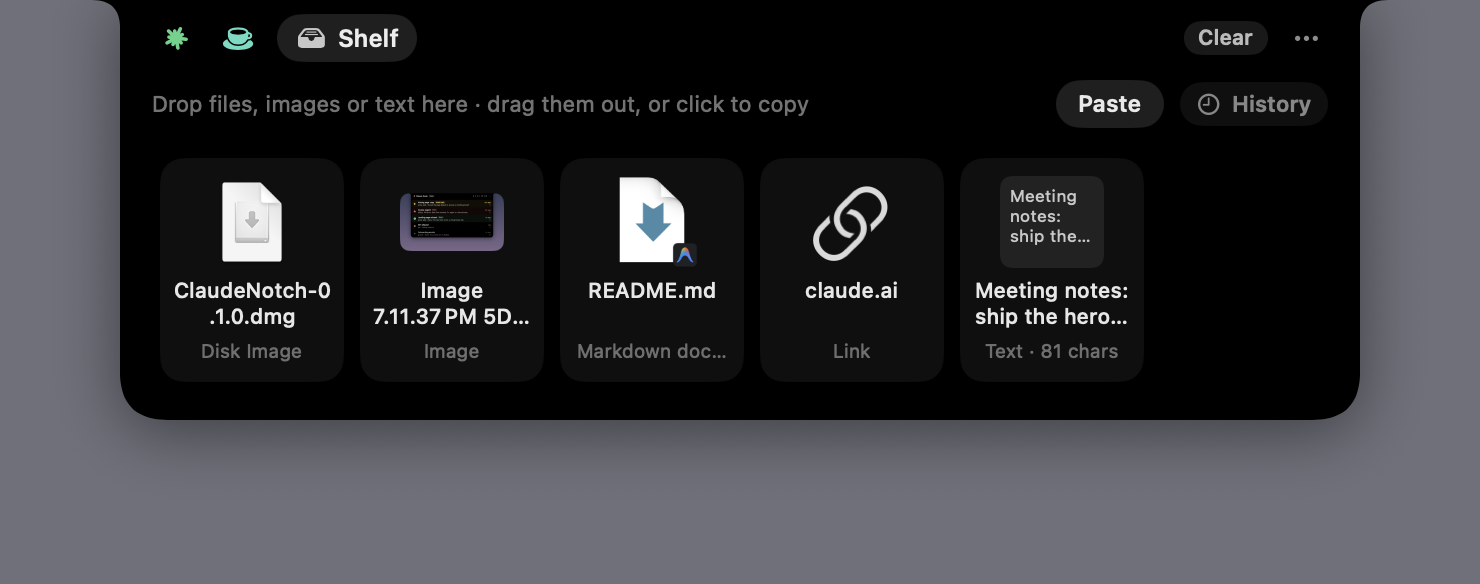
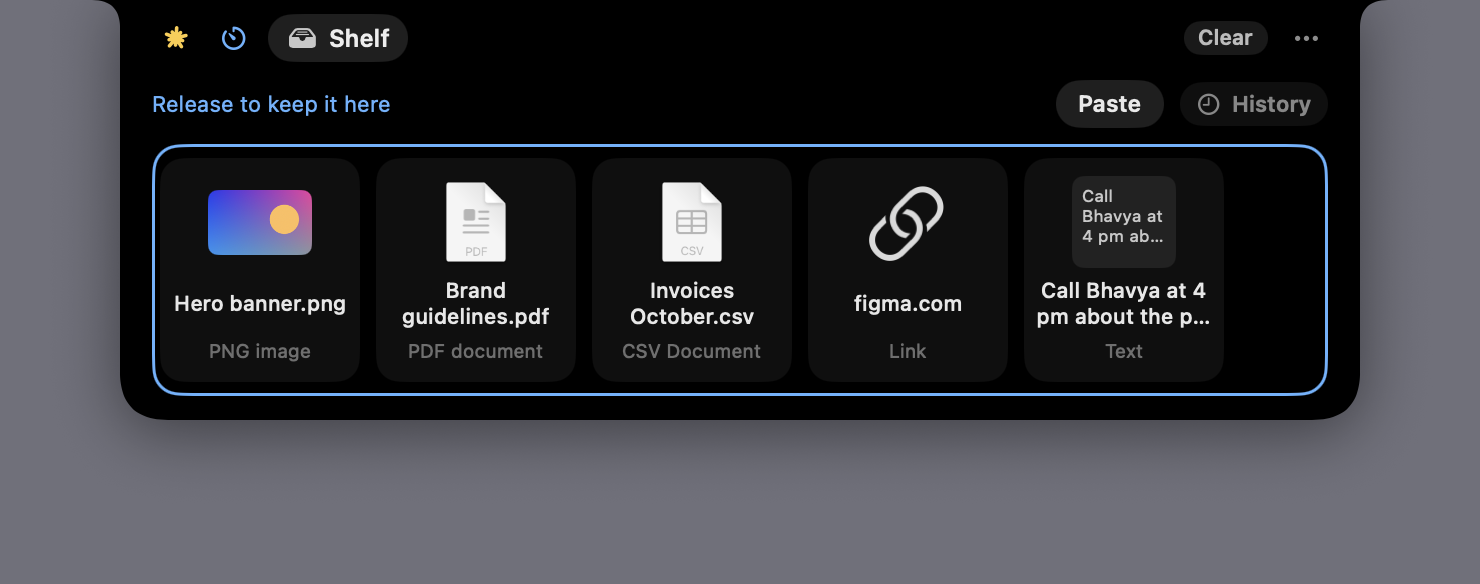
Showcase timer, Pomodoro and shelf at the top of the README

diff --git a/Sources/ClaudeNotch/ModuleViews.swift b/Sources/ClaudeNotch/ModuleViews.swift
@@ -494,10 +494,10 @@ struct ShelfTile: View {
             Text(item.title)
                 .font(.system(size: 10.5, weight: .medium))
                 .foregroundStyle(.white.opacity(0.9))
-                .lineLimit(isText ? 2 : 1)
-                .truncationMode(isText ? .tail : .middle) // "ClaudeN…0.1.0.dmg" keeps the extension
+                .lineLimit(2)
+                .truncationMode(isText ? .tail : .middle) // long file names keep their extension
                 .multilineTextAlignment(.center)
-                .frame(height: 26, alignment: isText ? .top : .center)
+                .frame(height: 26, alignment: .center)
             Text(copied ? "Copied" : item.kindLabel)
                 .font(.system(size: 9.5, weight: copied ? .bold : .regular))
                 .foregroundStyle(copied ? Palette.green : .white.opacity(0.4))
@@ -505,7 +505,7 @@ struct ShelfTile: View {
         }
         .padding(.horizontal, 6)
         .padding(.vertical, 7)
-        .frame(width: 92, height: 112)
+        .frame(width: 100, height: 112)
         .background(RoundedRectangle(cornerRadius: 12, style: .continuous).fill(Color.white.opacity(hovering ? 0.12 : 0.06)))
         .overlay(alignment: .topTrailing) {
             if hovering {

diff --git a/Sources/ClaudeNotch/SessionStore.swift b/Sources/ClaudeNotch/SessionStore.swift
@@ -28,6 +28,12 @@ final class SessionStore: ObservableObject {
     private var primed = false
 
     private static let acksKey = "acknowledged"
+    #if DEBUG
+    /// A debug build on a fake ~/.claude shows only the fake sessions, never real ones reaching it via hooks.
+    private static let fakeHome = ProcessInfo.processInfo.environment["CLAUDENOTCH_HOME"] != nil
+    #else
+    private static let fakeHome = false
+    #endif
     /// On first sight, anything that finished longer ago than this counts as already seen.
     private static let freshWindow: TimeInterval = 15 * 60
 
@@ -120,7 +126,7 @@ final class SessionStore: ObservableObject {
 
         // Sessions we only know from hooks (e.g. `claude -p`, Agent SDK apps).
         let known = Set(found.map(\.id))
-        for (sid, info) in hooks where !known.contains(sid) {
+        for (sid, info) in hooks where !known.contains(sid) && !Self.fakeHome {
             guard !info.permissions.isEmpty || info.replyWaiting || Date().timeIntervalSince(info.lastEventAt) < 600 else { continue }
             let ended = [info.lastStop?.at, info.lastFailure?.at].compactMap { $0 }.max()
             let busy = info.lastPromptAt.map { prompt in ended.map { prompt > $0 } ?? true } ?? false

diff --git a/Sources/ClaudeNotch/DebugHooks.swift b/Sources/ClaudeNotch/DebugHooks.swift
@@ -70,6 +70,15 @@ enum DebugHooks {
                 } else if command.hasPrefix("reply:") {
                     let s = store.sessions.first { $0.canReply }
                     NSLog("reply → \(s.map { app.reply($0, text: String(command.dropFirst(6))) } ?? false)")
+                } else if command.hasPrefix("record:"), let c = all.first {
+                    // record:<dir>,<frames>,<ms> — window-server frames at a steady pace, for demo GIFs.
+                    let parts = command.dropFirst(7).split(separator: ",").map(String.init)
+                    guard parts.count == 3, let frames = Int(parts[1]), let ms = Double(parts[2]) else { return }
+                    for i in 0..<frames {
+                        DispatchQueue.main.asyncAfter(deadline: .now() + Double(i) * ms / 1000) {
+                            WindowShot.capture(c.panel, to: "\(parts[0])/frame-\(String(format: "%04d", i)).png")
+                        }
+                    }
                 } else if command.hasPrefix("film:"), let c = all.first {
                     // What the window server actually shows, frame by frame, while the notch opens or closes.
                     let parts = command.dropFirst(5).split(separator: ",")

diff --git a/Sources/ClaudeNotch/ShelfStore.swift b/Sources/ClaudeNotch/ShelfStore.swift
@@ -25,7 +25,9 @@ final class ShelfStore: ObservableObject {
             switch content {
             case .file(let url): return url.lastPathComponent
             case .text(let text): return text.trimmingCharacters(in: .whitespacesAndNewlines).components(separatedBy: .newlines).first ?? text
-            case .link(let url): return url.host ?? url.absoluteString
+            case .link(let url):
+                let host = url.host ?? url.absoluteString
+                return host.hasPrefix("www.") ? String(host.dropFirst(4)) : host
             }
         }
 

diff --git a/README.md b/README.md
@@ -1,10 +1,47 @@
-# ClaudeNotch
+<p align="center">
+  <img src="docs/icon.png" width="112" alt="ClaudeNotch icon">
+</p>
 
-Your Claude Code sessions in the MacBook notch: see them, approve them, answer them, and tell them what to do next, from any app or screen. Plus a timer, Pomodoro, and a shelf for carrying files and text between apps and Spaces. Inspired by [TwoCode](https://github.com/levon-z/TwoCode) (a Dynamic Island for Windows), rebuilt natively for macOS.
+<h1 align="center">ClaudeNotch</h1>
 
-It floats above the menu bar on every Space, over full-screen apps, and on every display (screens without a notch get a virtual one). Opening and closing run as Core Animation springs in the render server, at 120 fps on ProMotion displays.
+<p align="center">
+  <b>Claude Code, a timer, Pomodoro and a shelf, living in your MacBook's notch.</b><br>
+  Watch and answer every Claude Code session, time your focus, and carry files between apps and Spaces, without leaving what you're doing.
+</p>
 
-![The open notch with five sessions: one needs a reply, one failed, one is done, one is working, one is idle](docs/list.png)
+<p align="center">
+  <a href="https://github.com/dkumarvaishnav/ClaudeNotch/releases/latest"><img src="https://img.shields.io/github/v/release/dkumarvaishnav/ClaudeNotch?label=Download&color=D97757&style=for-the-badge" alt="Download the latest release"></a>
+  <img src="https://img.shields.io/badge/macOS-14%2B-3a3a3c?style=for-the-badge&logo=apple" alt="macOS 14 or later">
+  <img src="https://img.shields.io/badge/Apple%20silicon%20%2B%20Intel-native-3a3a3c?style=for-the-badge" alt="Native on Apple silicon and Intel">
+</p>
+
+<p align="center">
+  <img src="docs/demo.gif" width="800" alt="The notch opening, then switching between the Claude, Timer and Shelf tabs">
+</p>
+
+<table>
+  <tr>
+    <th width="33%">Claude Code</th>
+    <th width="33%">Timer &amp; Pomodoro</th>
+    <th width="33%">Shelf</th>
+  </tr>
+  <tr>
+    <td><img src="docs/tab-claude.png" alt="Claude tab: five sessions, one asking to deploy with Deny and Allow buttons"></td>
+    <td><img src="docs/tab-timer.png" alt="Timer tab: Pomodoro focus round 2 of 4"></td>
+    <td><img src="docs/tab-shelf.png" alt="Shelf tab: an image, a PDF, a CSV, a link and a note"></td>
+  </tr>
+  <tr>
+    <td>Every session, colour-coded. Allow or deny requests, answer Claude's questions and reply, right from the notch.</td>
+    <td>Quick timers and 25 / 5 Pomodoro rounds, counting down beside the notch with a chime at the end.</td>
+    <td>Drop files, images, links or text on the notch, then take them to another app or Space.</td>
+  </tr>
+</table>
+
+It floats above the menu bar on every Space, over full-screen apps, and on every display (screens without a notch get a virtual one). Opening and closing are Core Animation springs at 120 fps on ProMotion displays, and it uses about 0.5% CPU when idle.
+
+## Claude Code
+
+Every Claude Code session on your Mac, desktop app or terminal, with what it's doing right now. Inspired by [TwoCode](https://github.com/levon-z/TwoCode) (a Dynamic Island for Windows), rebuilt natively for macOS.
 
 | | |
 | --- | --- |
@@ -23,20 +60,23 @@ It floats above the menu bar on every Space, over full-screen apps, and on every
 
 When a session finishes, fails or needs you, the notch pops open for 4 seconds and folds back by itself. The coloured dot stays, so you can walk away and still see it from across the room. Hovering doesn't clear colours either. A session goes grey once you open it, reply, click ✕ / **Mark as seen** / **Clear**, or start a new turn.
 
-## Timer, Pomodoro and the shelf
-
-The open notch has three tabs: **Claude**, **Timer** and **Shelf**.
+## Timer and Pomodoro
 
 | | |
 | --- | --- |
 | ![timer](docs/timer.png) | **Timer.** Pick a preset or nudge it with − / +, then Start. Pause, resume or reset any time. |
 | ![pomodoro](docs/pomodoro.png) | **Pomodoro.** 25 min focus, 5 min break, a 15 min break after 4 rounds. Breaks start by themselves; the next focus round waits for you. **Done early** and **Skip break** move on. |
 | ![countdown](docs/ear-timer.png) | **Beside the notch.** While a countdown runs, it sits to the left of the notch (blue for focus, mint for breaks) and your session dots stay on the right. When it ends you hear a chime and get a 4-second pop-up. |
-| ![shelf](docs/shelf.png) | **Shelf.** Drag files, images, links or text onto the notch from any app; it opens as a drop target. Switch Space or app, then drag them back out, or click one to copy it. **Paste** adds what you copied last. Files stay where they are (the shelf keeps a reference), and the shelf empties when ClaudeNotch quits. |
-
-**Clipboard history** (the **History** button, off by default) adds everything you copy to the shelf. macOS asks before an app reads what you copy, so it only records once you set ClaudeNotch to **Allow** under **System Settings → Privacy & Security → Paste from Other Apps**. The **Allow…** button takes you there. Items that password managers mark as private are never recorded.
 
 Timers survive a restart of the app; a countdown that ran out while it was closed just ends.
+
+## Shelf
+
+![shelf](docs/shelf.png)
+
+Drag files, images, links or text onto the notch from any app; it opens as a drop target. Switch Space or app, then drag them back out, or click one to copy it. **Paste** adds what you copied last. Files stay where they are (the shelf keeps a reference), and the shelf empties when ClaudeNotch quits.
+
+**Clipboard history** (the **History** button, off by default) adds everything you copy to the shelf. macOS asks before an app reads what you copy, so it only records once you set ClaudeNotch to **Allow** under **System Settings → Privacy & Security → Paste from Other Apps**. The **Allow…** button takes you there. Items that password managers mark as private are never recorded.
 
 ## Install
 
